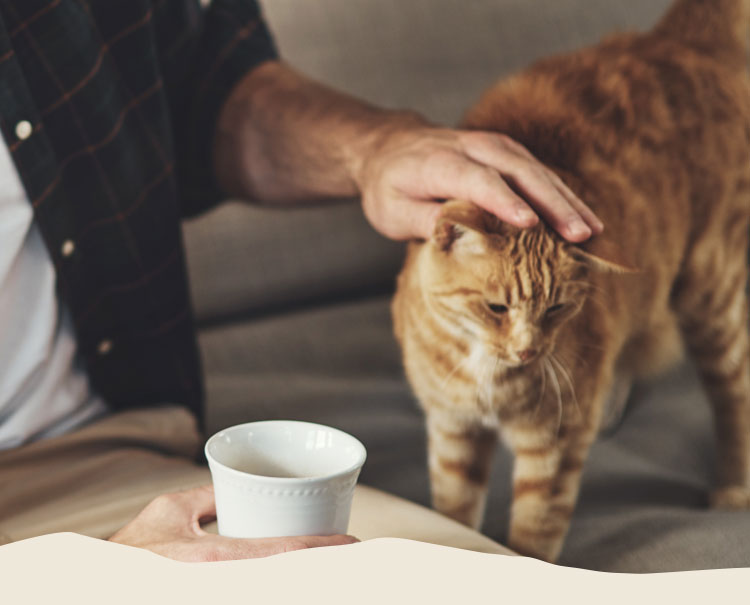
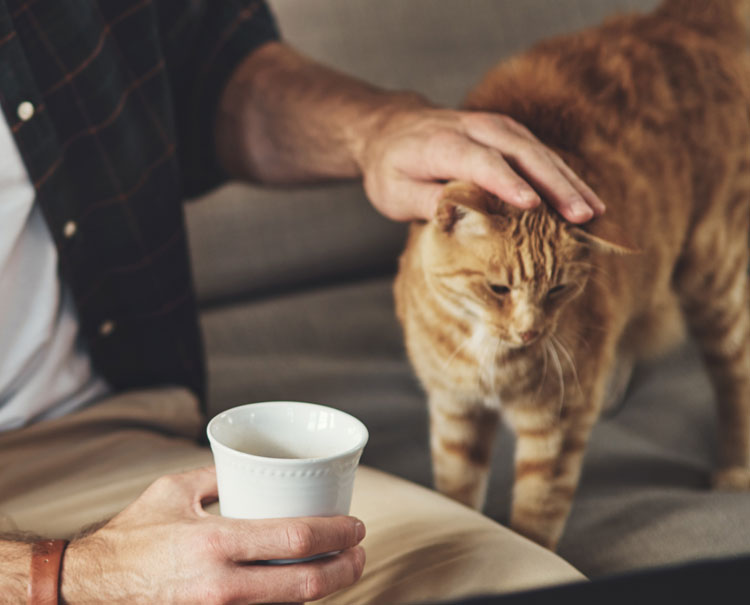
修改contact页面

diff --git a/src/views/HealthyMPage.vue b/src/views/HealthyMPage.vue
@@ -6,7 +6,7 @@
     <!-- Hero -->
     <section class="hero">
       <div class="hero-bg">
-        <img src="../assets/mimgs/healthy_bg_02.jpg" alt="">
+        <img src="../assets/m/why-p1.jpg" alt="">
       </div>
       <div class="title1">
         Ensuring Your Pet's<br>
@@ -19,10 +19,12 @@
         LEARN MORE
       </div>
     </section>
-
+    <div class="shape-img">
+      <img src="../assets/m/why-p5.png" alt="">
+    </div>
     <!-- Unleash energy -->
     <section class="unleash" ref="boxRef">
-      <img src="../assets/mimgs/healthy_bg_03.jpg" alt="">
+      <img src="../assets/m/why-p2.jpg" alt="">
       <div class="unleash-text1" :class="{ showBox }">
         <div class="text-sub1">At GloriPetgo™, we are dedicated to ensuring that your <span>beloved pet receives
             nutrition, safety, and deliciousness,</span> all while building a solid health barrier. </div>
@@ -281,7 +283,7 @@ onBeforeUnmount(() => {
 <style lang="scss" scoped>
 .landing-page {
   width: 100%;
-  background: #fff;
+  background: #efe8db;
 
   .hero {
     position: relative;
@@ -325,7 +327,11 @@ onBeforeUnmount(() => {
       }
     }
   }
-
+  .shape-img {
+    margin-top: -137px;
+    z-index: 1000;
+    position: relative;
+  }
   @keyframes dropIn {
     from {
       opacity: 0;
